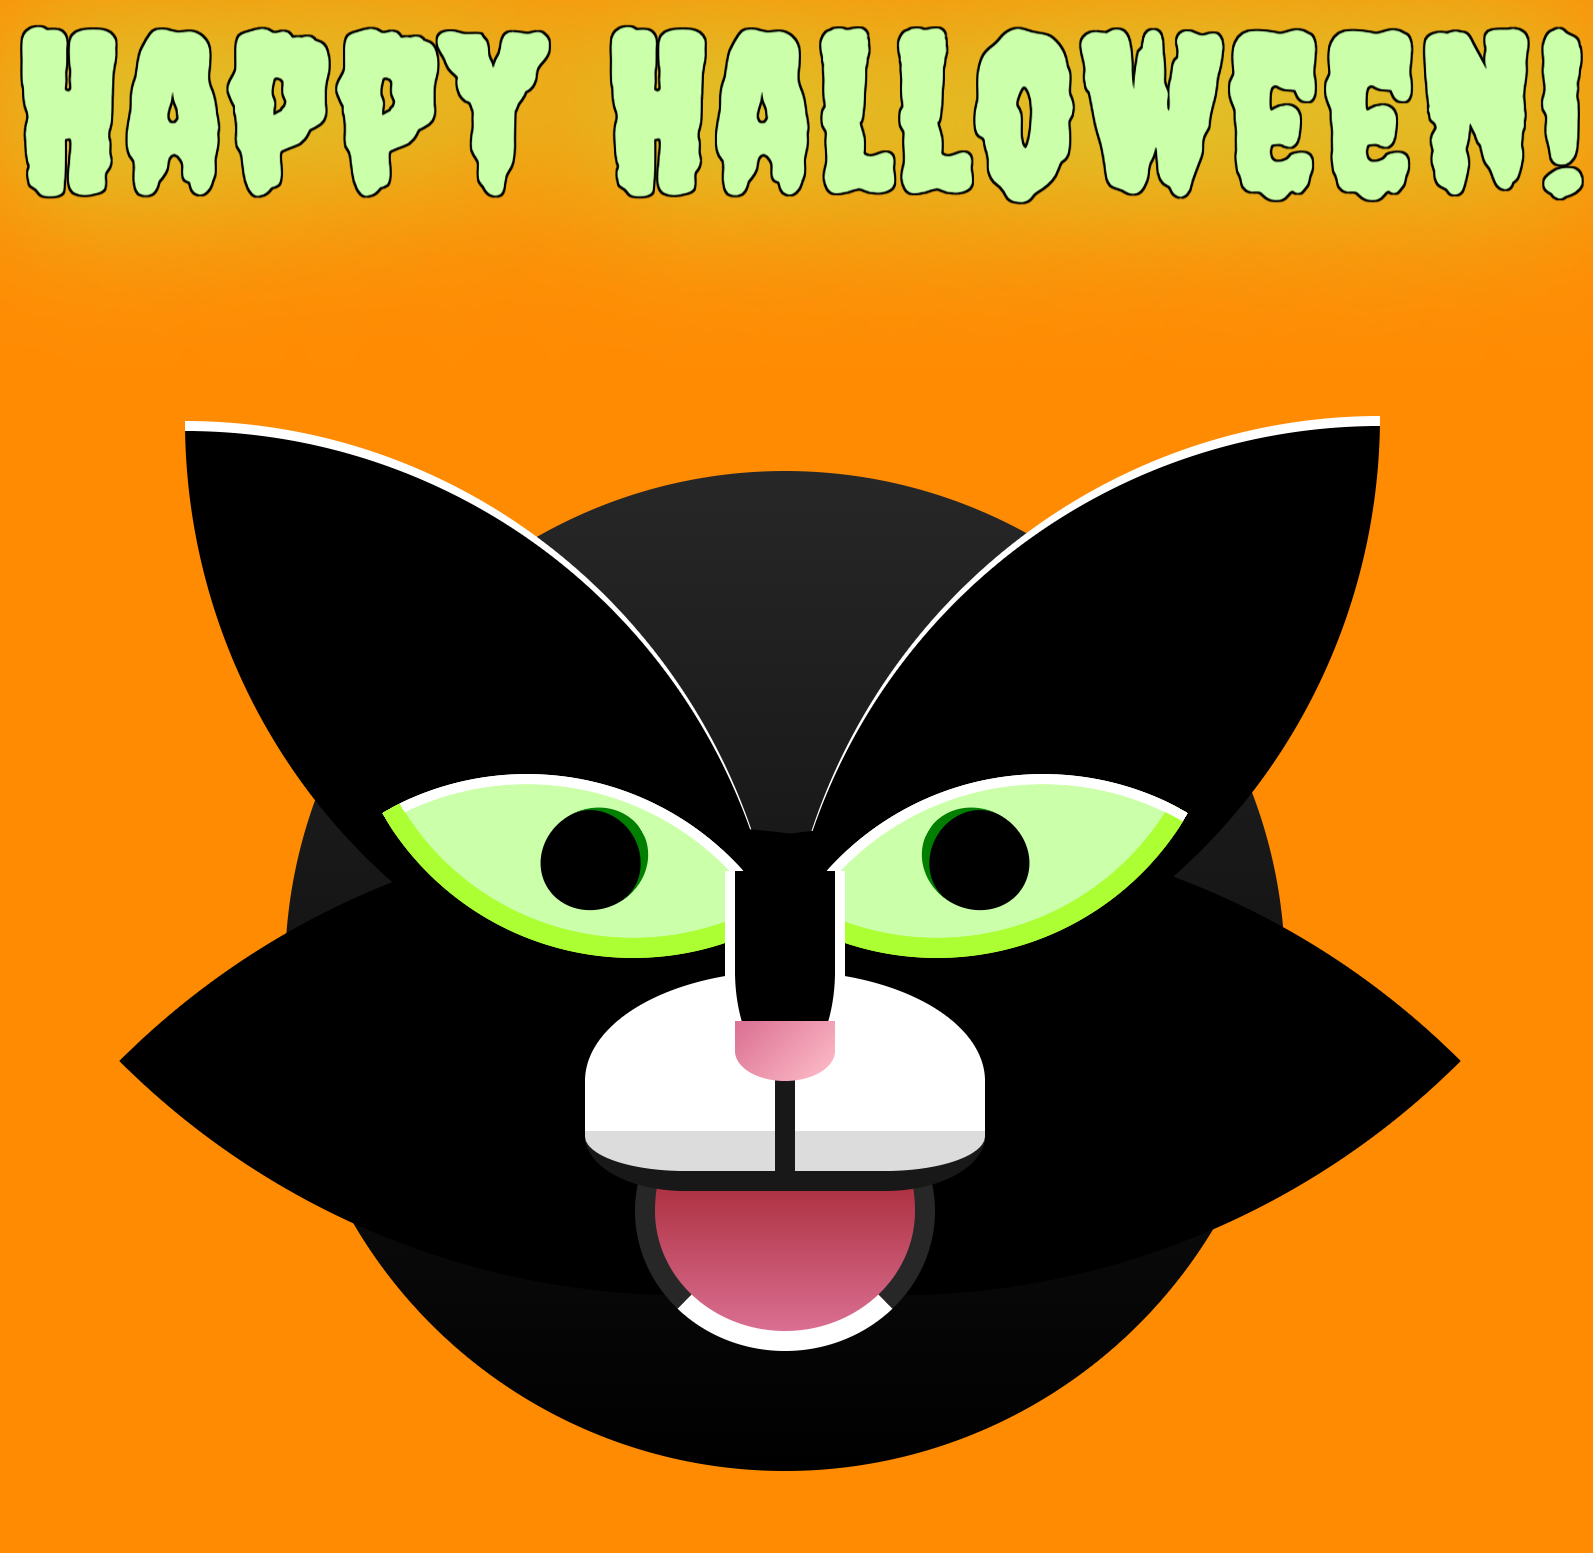
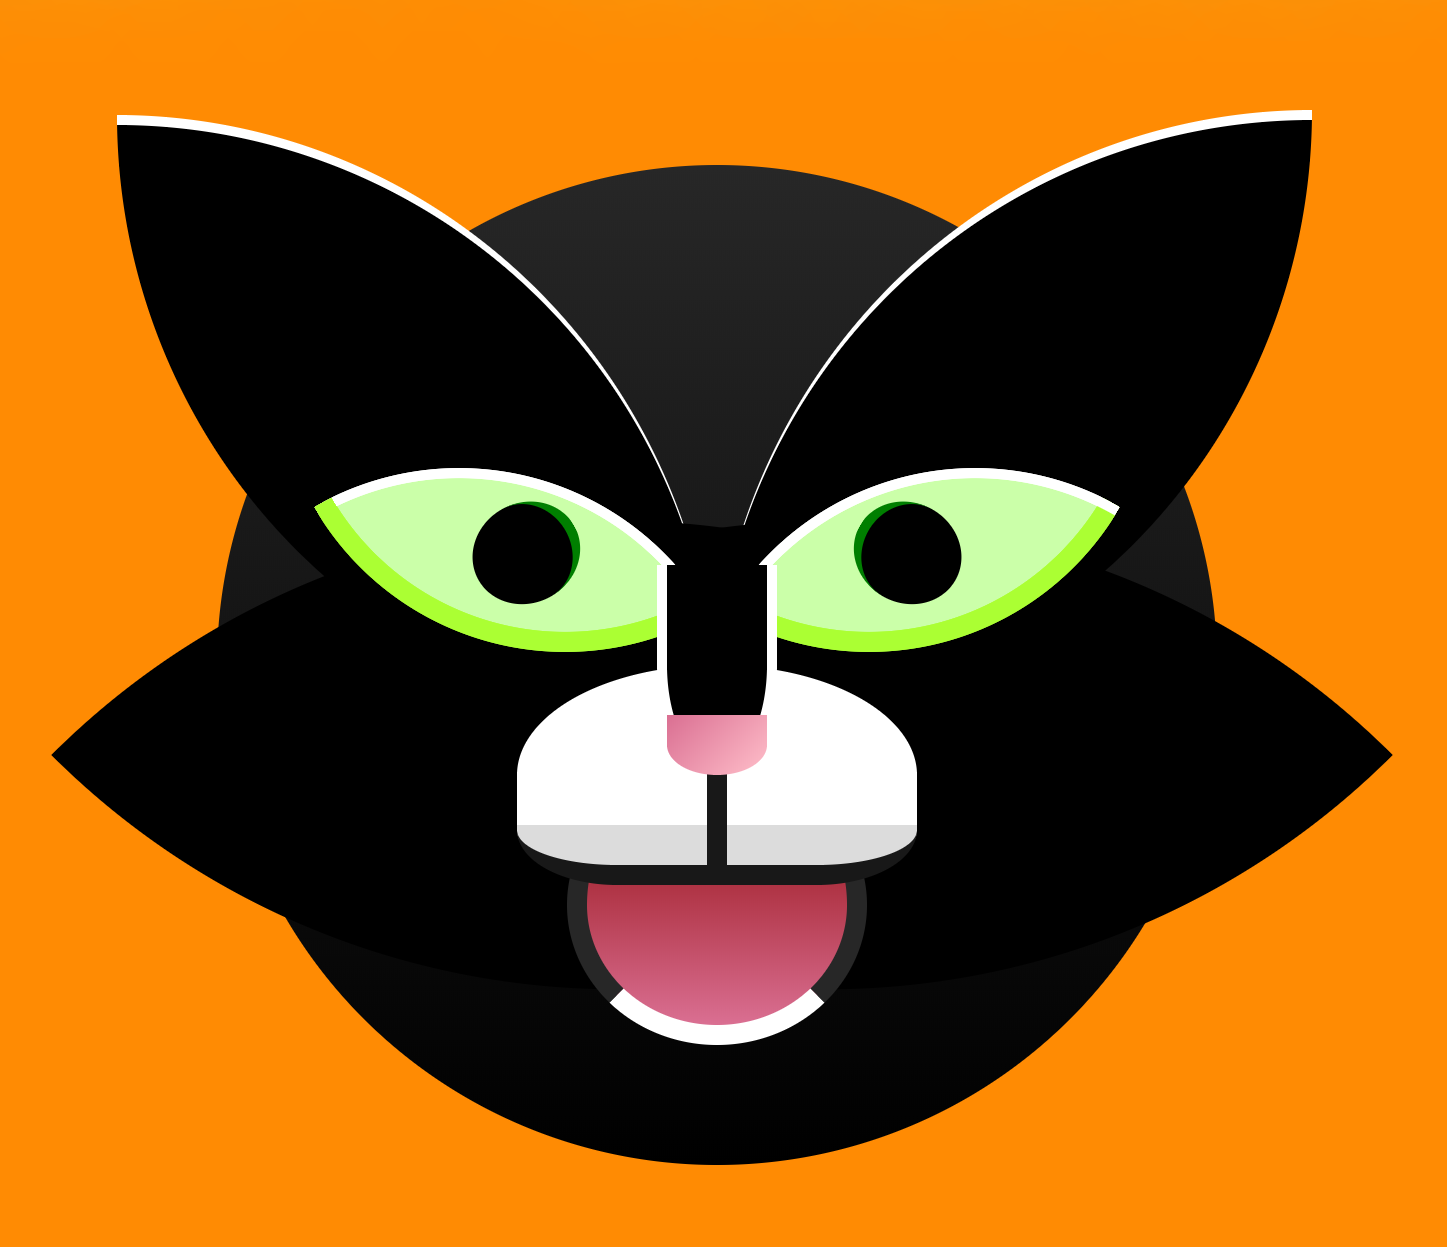
cropped text out of png added card to root index

diff --git a/index.html b/index.html
@@ -269,8 +269,16 @@
     </div>
 
 
-
-
+    <!-- Martyav -->
+    <div class='card'>
+      <a href='./Art/martyav/halloween_cat.html' target='_blank'>
+        <p class='project-name'>Halloween Cat</p>
+        <img src='./Art/martyav/halloween_cat.png' alt='A black cat, under green text stating, "Happy Halloween!"'/>
+      </a>
+      <p class='author'>by
+        <a href="https://github.com/martyav" target="_blank">Martyav</a>
+      </p>
+  </div>
 
 
 
